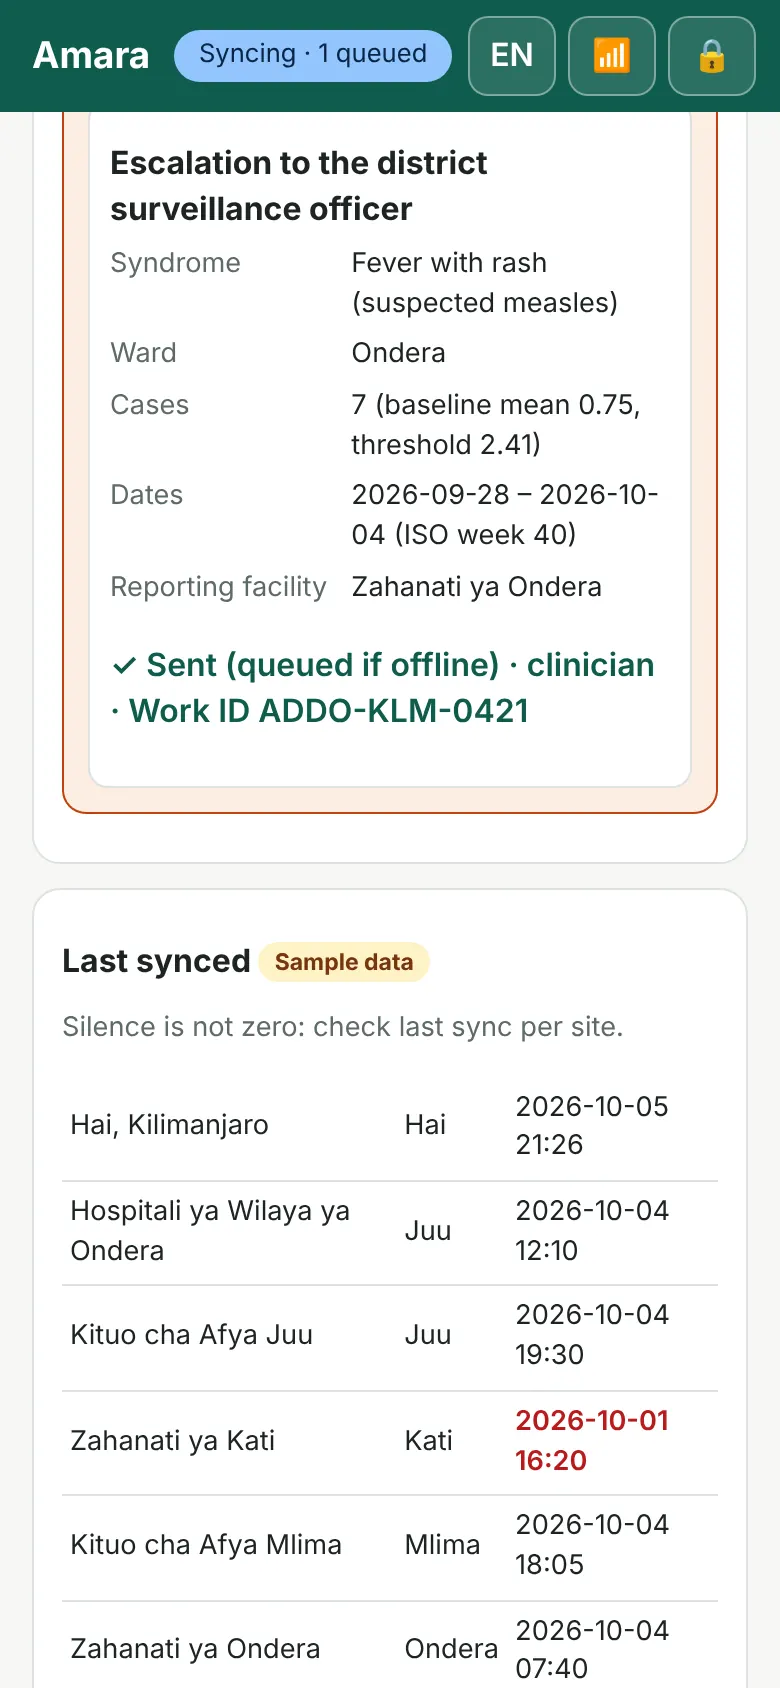
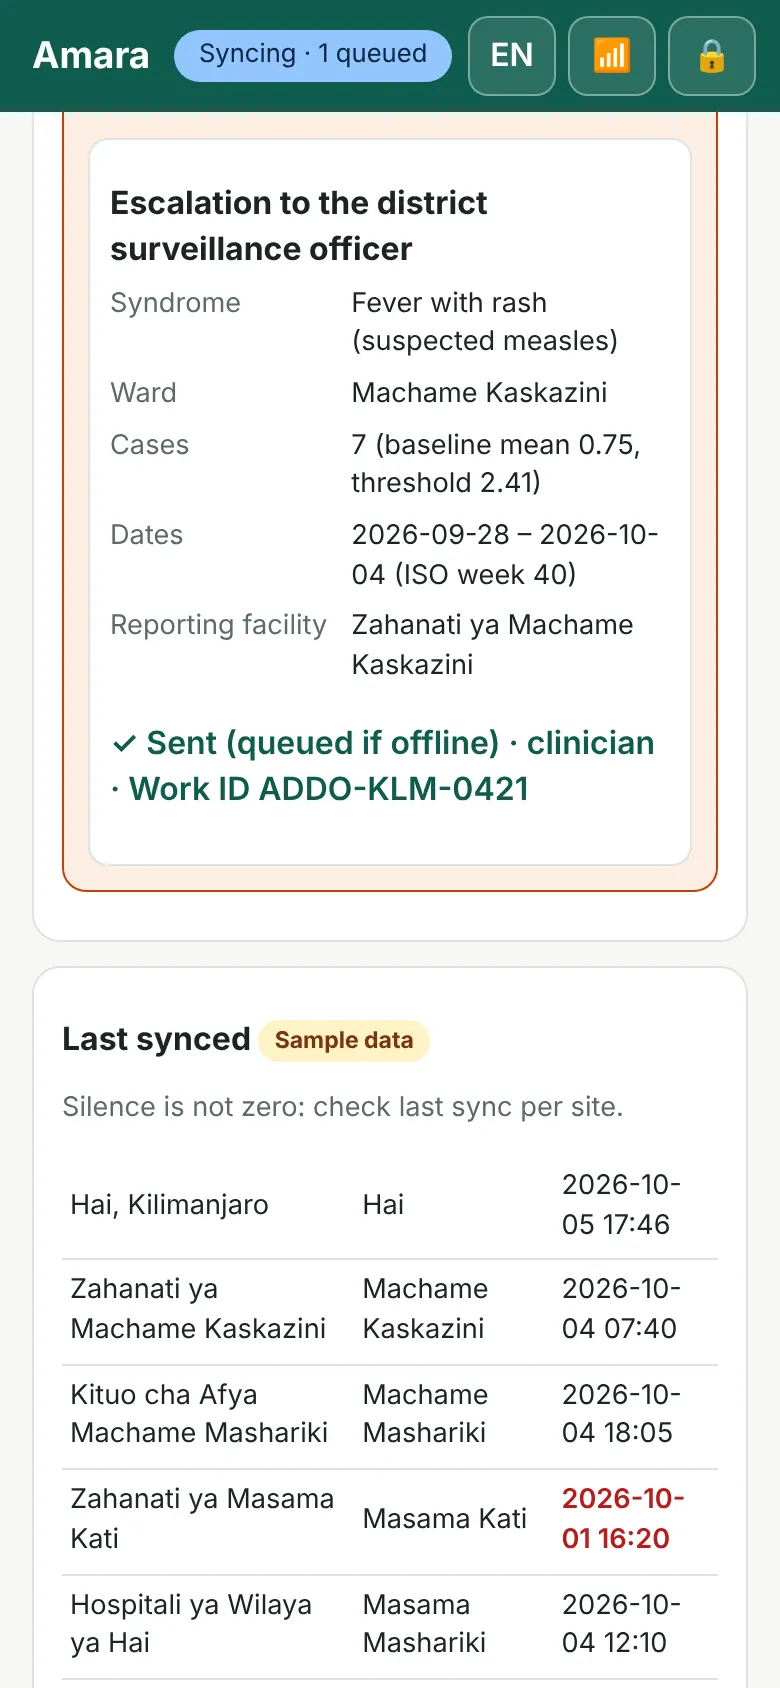
Website for investors and judges: at-a-glance strip, Business tab (who pays, unit economics, market, landscape, why now), Traction & roadmap with the ask; screens retaken with real Hai wards
Claude-Session: https://claude.ai/code/session_01BWQQm4qCbpSqJ7yc6vTWxh

diff --git a/site/index.html b/site/index.html
@@ -235,6 +235,30 @@ ol.flow li::before{content:counter(f);font:500 13px/1.9 var(--mono);color:var(--
 .contact{display:flex;flex-wrap:wrap;gap:16px;align-items:center;justify-content:space-between}
 .contact .btns{display:flex;flex-wrap:wrap;gap:12px}
 
+.glance{display:grid;grid-template-columns:repeat(5,minmax(0,1fr));gap:12px}
+.glance div{background:var(--card);border:1px solid var(--line);border-radius:16px;padding:16px;display:flex;flex-direction:column;gap:6px;min-width:0}
+.glance .k{font:600 11.5px var(--sans);letter-spacing:.1em;text-transform:uppercase;color:var(--amber)}
+.glance p{font-size:14.5px;line-height:1.45}
+@media (max-width:900px){.glance{grid-template-columns:repeat(2,minmax(0,1fr))}}
+@media (max-width:440px){.glance{grid-template-columns:minmax(0,1fr)}}
+.calc{display:flex;flex-wrap:wrap;align-items:center;gap:10px 14px;font-size:16px}
+.calc b{font:600 26px/1 var(--serif);color:var(--green);font-variant-numeric:tabular-nums}
+.calc span.op{font:500 20px var(--mono);color:var(--soft)}
+.road{list-style:none;margin:0;padding:0;display:grid;grid-template-columns:repeat(5,minmax(0,1fr));gap:14px}
+.road li{position:relative;background:var(--card);border:1px solid var(--line);border-radius:16px;padding:18px 16px 16px;display:flex;flex-direction:column;gap:6px}
+.road li::before{content:"";position:absolute;top:-1px;left:16px;right:16px;height:4px;border-radius:0 0 4px 4px;background:var(--line)}
+.road li.done::before{background:var(--green)} .road li.next::before{background:var(--gold)}
+.road .when{font:500 12.5px var(--mono);color:var(--amber)}
+.road h3{font-size:18px}
+.road p{font-size:14.5px;color:var(--soft)}
+.road .st{align-self:flex-start;font:700 11px var(--sans);letter-spacing:.08em;text-transform:uppercase;padding:3px 8px;border-radius:999px;background:var(--mint);color:var(--soft)}
+.road li.done .st{background:var(--ok-bg);color:var(--ok)} .road li.next .st{background:var(--today-bg);color:var(--today)}
+@media (max-width:900px){.road{grid-template-columns:minmax(0,1fr)}}
+.ask-band{display:grid;grid-template-columns:minmax(0,1.2fr) minmax(0,1fr);gap:clamp(20px,4vw,48px);align-items:center}
+.ask-band ul{margin:0;padding-left:20px;display:flex;flex-direction:column;gap:6px;font-size:16px}
+@media (max-width:760px){.ask-band{grid-template-columns:minmax(0,1fr)}}
+.logo small{font:500 12px var(--sans);color:var(--soft);margin-left:2px}
+@media (max-width:420px){.logo small{display:none}}
 footer{padding-block:28px 36px;border-top:1px solid var(--line);font-size:13.5px;color:var(--soft)}
 footer .wrap{display:flex;flex-direction:column;gap:10px}
 </style>
@@ -245,7 +269,7 @@ footer .wrap{display:flex;flex-direction:column;gap:10px}
     <div class="bar">
       <a class="logo" href="#home" data-go="home">
         <svg width="26" height="26" viewBox="0 0 32 32" aria-hidden="true"><circle cx="16" cy="16" r="15" fill="none" stroke="currentColor" stroke-width="2"/><path d="M16 7v18M9 13c3 0 7 1.5 7 5M23 13c-3 0-7 1.5-7 5" fill="none" stroke="currentColor" stroke-width="2" stroke-linecap="round"/></svg>
-        Amara First Contact
+        Amara First Contact <small>by Amara Health</small>
       </a>
       <a class="btn solid" href="https://ericastephens.github.io/amara-first-contact/?welcome" target="_blank" rel="noopener">Try the app</a>
     </div>
@@ -255,7 +279,8 @@ footer .wrap{display:flex;flex-direction:column;gap:10px}
       <button class="tab" role="tab" id="t-how" aria-controls="how" aria-selected="false">How it works</button>
       <button class="tab" role="tab" id="t-ai" aria-controls="ai" aria-selected="false">Small AI</button>
       <button class="tab" role="tab" id="t-safety" aria-controls="safety" aria-selected="false">Safety</button>
-      <button class="tab" role="tab" id="t-pilot" aria-controls="pilot" aria-selected="false">Evidence &amp; pilot</button>
+      <button class="tab" role="tab" id="t-business" aria-controls="business" aria-selected="false">Business</button>
+      <button class="tab" role="tab" id="t-pilot" aria-controls="pilot" aria-selected="false">Traction &amp; roadmap</button>
       <button class="tab" role="tab" id="t-team" aria-controls="team" aria-selected="false">Team</button>
       <button class="tab partner" role="tab" id="t-partner" aria-controls="partner" aria-selected="false">Partner with us</button>
     </nav>
@@ -269,7 +294,7 @@ footer .wrap{display:flex;flex-direction:column;gap:10px}
   <div class="wrap">
     <div class="hero">
       <div>
-        <p class="eyebrow">Small AI for Development 2026 · World Bank × Hack-Nation · Health</p>
+        <p class="eyebrow">Amara Health · Africa programme · Hai, Kilimanjaro, Tanzania</p>
         <h1>The first door she knocks on gets her to the <em>right care.</em></h1>
         <p class="lede">Amara First Contact is an offline triage and referral app for mothers and their children. A drug shop dispenser, community health worker or nurse runs it on a low-cost Android phone. A small AI reads the mother's own Swahili words, sourced rules decide how urgent it is, and she leaves with a clinic, a time and a code by SMS.</p>
         <div class="ctas">
@@ -288,6 +313,14 @@ footer .wrap{display:flex;flex-direction:column;gap:10px}
       </div>
     </div>
 
+    <div class="glance" aria-label="At a glance">
+      <div><span class="k">Problem</span><p>About 4.4 health workers per 10,000 people in Tanzania. Mothers often go to a drug shop first, with no way to judge urgency.</p></div>
+      <div><span class="k">Solution</span><p>Offline triage and referral at the drug shop: small AI in Swahili, sourced rules, SMS to her basic phone.</p></div>
+      <div><span class="k">Who pays</span><p>Health programmes, districts and later insurers, per completed referral or per district. Free for mothers.</p></div>
+      <div><span class="k">Stage</span><p>Working MVP, live demo, 128 automated tests. Built at the World Bank × Hack-Nation hackathon, Oct 2026.</p></div>
+      <div><span class="k">Next</span><p>A 6-month pilot with drug shops in Hai District, Kilimanjaro, in 2027.</p></div>
+    </div>
+
     <div class="band mint">
       <div class="film">
         <video controls preload="none" playsinline poster="media/simulation-poster.webp" src="media/simulation.mp4" aria-label="Simulation: three mothers, one small AI"></video>
@@ -304,7 +337,7 @@ footer .wrap{display:flex;flex-direction:column;gap:10px}
         </div>
       </div>
     </div>
-    <div class="pager"><span></span><button class="btn solid" data-go="problem">Next: The problem →</button></div>
+    <div class="pager"><button class="btn" data-go="business">For investors: the business →</button><button class="btn solid" data-go="problem">Next: The problem →</button></div>
   </div>
 </section>
 
@@ -477,14 +510,90 @@ footer .wrap{display:flex;flex-direction:column;gap:10px}
       <div class="prob"><h3>AI doesn't speak her language</h3><p>For Kichaga, Maa and others: keypad answers and voices recorded by the community. The interface works in Swahili and English, with a French draft.</p></div>
       <div class="prob"><h3>The clinic is full</h3><p>A booked slot and a note that arrives first. Danger signs skip the queue with Go now.</p></div>
     </div>
-    <div class="pager"><button class="btn" data-go="ai">← Small AI</button><button class="btn solid" data-go="pilot">Next: Evidence &amp; pilot →</button></div>
+    <div class="pager"><button class="btn" data-go="ai">← Small AI</button><button class="btn solid" data-go="business">Next: Business →</button></div>
+  </div>
+</section>
+
+<!-- BUSINESS -->
+<section class="panel" id="business" role="tabpanel" aria-labelledby="t-business" hidden>
+  <div class="wrap">
+    <div class="head"><p class="eyebrow">Business model</p><h2>Free for mothers, paid for by the programmes that need referrals to work</h2>
+      <p class="lede">Mothers and drug shops in rural Tanzania cannot pay for software. The organisations that gain when a mother reaches the right clinic early can: health programmes, districts and, later, insurers.</p></div>
+    <div class="tbl">
+      <table>
+        <thead><tr><th>Who pays</th><th>What they buy</th><th>How we charge</th><th>When</th></tr></thead>
+        <tbody>
+          <tr><td><b>NGOs and donor-funded health programmes</b></td><td>A referral system for the drug shops and CHWs in their programme</td><td>Setup and training fee, then a fee per site</td><td>Pilot, 2027</td></tr>
+          <tr><td><b>Results-based programmes</b></td><td>Completed referrals of mothers and children</td><td>A small fee per completed referral</td><td>After the pilot</td></tr>
+          <tr><td><b>District and regional health teams</b></td><td>Referrals with notes, and anonymous weekly counts for outbreaks</td><td>Yearly licence per district</td><td>2028 onward</td></tr>
+          <tr><td><b>Health insurers</b></td><td>Members who reach care early, avoiding costly emergencies</td><td>Fee per member</td><td>Later</td></tr>
+        </tbody>
+      </table>
+    </div>
+    <p class="src">Mothers never pay and the core app stays free for drug shops. Prices are hypotheses to test in the pilot.</p>
+
+    <div class="band peach head">
+      <p class="eyebrow">Illustrative unit economics · one district</p>
+      <div class="calc"><b>100</b><span>drug shops and CHWs</span><span class="op">×</span><b>20</b><span>completed referrals a month</span><span class="op">×</span><b>$1</b><span>per referral</span><span class="op">=</span><b>~$24,000</b><span>a year</span></div>
+      <p class="src">An example to show the model, not a forecast: the number of sites, referrals and the price will come from the Hai pilot. Costs per district are mainly SMS, training and support, as the app runs on phones people already own and needs no server for triage.</p>
+    </div>
+
+    <div class="head"><p class="eyebrow">Market</p><h3 style="font-size:clamp(24px,3vw,30px)">Start in one district, grow along the Swahili-speaking corridor</h3></div>
+    <div class="stats">
+      <div class="stat"><span class="n">~2.4M</span><p>Births a year in Tanzania, each a mother who may need referral in pregnancy or for her child.</p></div>
+      <div class="stat"><span class="n">9,000+</span><p>Accredited drug shops (ADDOs) across every mainland district: our first users.</p></div>
+      <div class="stat"><span class="n">31%</span><p>Of people go first to an ADDO when ill, more than to a public facility.</p></div>
+      <div class="stat"><span class="n">Hai → TZ</span><p>Start in Hai District, then Kilimanjaro region, all of Tanzania, and Swahili-speaking East Africa.</p></div>
+    </div>
+    <p class="src">Sources: UN World Population Prospects 2024 (2,385,984 births in 2024, via <a href="https://measuredworld.com/countries/tanzania/births/births-trends" target="_blank" rel="noopener">Measured World</a>); Embrey et al., PLOS ONE 2016 (ADDO figures).</p>
+
+    <div class="head"><p class="eyebrow">Landscape</p><h3 style="font-size:clamp(24px,3vw,30px)">We fill a gap the others leave, and plug into them</h3></div>
+    <div class="tbl">
+      <table>
+        <thead><tr><th>Programme or tool</th><th>What it does</th><th>Where Amara First Contact fits</th></tr></thead>
+        <tbody>
+          <tr><td><b>Afya-Tek</b> (D-tree)</td><td>Digital referral linking drug shops, CHWs and facilities in Kibaha, Tanzania</td><td>Proved the model. We add offline AI that reads her own words and asks about exposures</td></tr>
+          <tr><td><b>m-mama</b></td><td>Emergency transport for mothers and newborns</td><td>Our Go now result can hand off to m-mama dispatch</td></tr>
+          <tr><td><b>Wazazi Nipendeni, MomConnect</b></td><td>SMS information for pregnant women and new mothers</td><td>We send one short action SMS: where, when and her code</td></tr>
+          <tr><td><b>DHIS2 and eIDSR</b></td><td>National health data and disease surveillance systems</td><td>Designed to feed them anonymous counts using ICD-10</td></tr>
+        </tbody>
+      </table>
+    </div>
+    <div class="band sky head">
+      <p class="eyebrow">Why us, why now</p>
+      <ul class="scen">
+        <li style="--c:var(--green)"><div><b>AI small enough for a cheap phone</b><p>Our model is 660 KB and runs with no internet, so it works where cloud AI cannot.</p></div></li>
+        <li style="--c:var(--gold)"><div><b>A front door that already exists</b><p>Thousands of accredited drug shops already see mothers first; we give them a safe way to refer.</p></div></li>
+        <li style="--c:var(--plum)"><div><b>A team that knows the place</b><p>A Tanzanian co-founder and public health training from Johns Hopkins.</p></div></li>
+      </ul>
+    </div>
+    <div class="pager"><button class="btn" data-go="safety">← Safety</button><button class="btn solid" data-go="pilot">Next: Traction &amp; roadmap →</button></div>
   </div>
 </section>
 
 <!-- PILOT -->
 <section class="panel" id="pilot" role="tabpanel" aria-labelledby="t-pilot" hidden>
   <div class="wrap">
-    <div class="head"><p class="eyebrow">Evidence we build on</p><h2>Built on programmes that worked</h2></div>
+    <div class="head"><p class="eyebrow">Traction &amp; roadmap</p><h2>A working product today, a pilot in Hai next</h2>
+      <p class="lede">We built the app at the World Bank × Hack-Nation Small AI for Development Hackathon (3–4 October 2026), then kept going: real clinics, three languages, a public demo and a pilot plan.</p></div>
+    <ol class="road">
+      <li class="done"><span class="when">Oct 2026</span><h3>MVP built</h3><p>Offline app, small AI, 26 sourced rules, 128 tests, 105 real clinics around Hai.</p><span class="st">Done</span></li>
+      <li class="done"><span class="when">Oct–Nov 2026</span><h3>Public demo</h3><p>Live app, website and simulation video; outreach to digital health organisations working in Tanzania.</p><span class="st">Done</span></li>
+      <li class="next"><span class="when">Q1 2027</span><h3>Validate</h3><p>Interviews with dispensers, CHWs and mothers in Hai; clinical and Swahili review; ethics approval.</p><span class="st">Next</span></li>
+      <li><span class="when">Q2–Q3 2027</span><h3>Pilot</h3><p>6 months with drug shops and their linked facilities in Hai District.</p><span class="st">Planned</span></li>
+      <li><span class="when">2028</span><h3>Scale</h3><p>First paid district contracts, then Kilimanjaro region and beyond.</p><span class="st">Planned</span></li>
+    </ol>
+    <div class="band mint ask-band">
+      <div class="head" style="gap:8px"><p class="eyebrow">Our ask</p><h3 style="font-size:clamp(24px,3vw,30px)">Funding and partners for the Hai pilot</h3>
+        <p class="soft">The pilot will show whether drug shop referrals with Amara First Contact reach the clinic, and what each completed referral costs.</p></div>
+      <ul>
+        <li>Pilot funding: phones, training, SMS, a facilitator in Hai</li>
+        <li>Clinical reviewers for the rules and danger signs</li>
+        <li>An implementing partner in Tanzania</li>
+        <li>Introductions to district health teams</li>
+      </ul>
+    </div>
+    <div class="head"><p class="eyebrow">Evidence we build on</p><h3 style="font-size:clamp(24px,3vw,30px)">Built on programmes that worked</h3></div>
     <div class="prior">
       <div><h3>Afya-Tek</h3><span class="where">Kibaha, Tanzania · 2020–23</span><p>Linked 110 drug shops, 240 health workers and 53 facilities; 89% of referrals completed.</p><p class="take">Digital referral from drug shops works</p></div>
       <div><h3>m-mama</h3><span class="where">Tanzania · national</span><p>Call centre and community taxis for emergencies. Shinyanga maternal deaths fell from 60 (2015) to 15 (2021).</p><p class="take">Transport is the life-saving step</p></div>
@@ -511,7 +620,7 @@ footer .wrap{display:flex;flex-direction:column;gap:10px}
         </ul></div>
       </div>
     </div>
-    <div class="pager"><button class="btn" data-go="safety">← Safety</button><button class="btn solid" data-go="team">Next: Team →</button></div>
+    <div class="pager"><button class="btn" data-go="business">← Business</button><button class="btn solid" data-go="team">Next: Team →</button></div>
   </div>
 </section>
 
@@ -535,7 +644,7 @@ footer .wrap{display:flex;flex-direction:column;gap:10px}
         <a class="btn" href="https://github.com/ericastephens/amara-first-contact" target="_blank" rel="noopener">Code on GitHub</a>
       </div>
     </div>
-    <div class="pager"><button class="btn" data-go="pilot">← Evidence &amp; pilot</button><button class="btn gold" data-go="partner">Partner with us →</button></div>
+    <div class="pager"><button class="btn" data-go="pilot">← Traction &amp; roadmap</button><button class="btn gold" data-go="partner">Partner with us →</button></div>
   </div>
 </section>
 
@@ -575,7 +684,7 @@ footer .wrap{display:flex;flex-direction:column;gap:10px}
 
 <script>
 (function(){
-  var ids=['home','problem','how','ai','safety','pilot','team','partner'];
+  var ids=['home','problem','how','ai','safety','business','pilot','team','partner'];
   var tabs=document.querySelectorAll('.tab');
   var current='home';
   function show(id,push){
@@ -599,6 +708,7 @@ footer .wrap{display:flex;flex-direction:column;gap:10px}
   main.addEventListener('touchend',function(e){ if(sx===null) return; var dx=e.changedTouches[0].clientX-sx, dy=e.changedTouches[0].clientY-sy; if(Math.abs(dx)>70&&Math.abs(dx)>2*Math.abs(dy)){ var n=ids.indexOf(current)+(dx<0?1:-1); if(n>=0&&n<ids.length) show(ids[n],true); } sx=null; },{passive:true});
   window.addEventListener('hashchange',function(){ show(location.hash.slice(1),false); window.scrollTo(0,0); });
   show((location.hash||'#home').slice(1),false);
-  window.scrollTo(0,0); window.addEventListener('load',function(){ window.scrollTo(0,0); });
+  try{ if('scrollRestoration' in history) history.scrollRestoration='manual'; }catch(e){}
+  window.scrollTo(0,0); window.addEventListener('load',function(){ window.scrollTo(0,0); setTimeout(function(){ window.scrollTo(0,0); },50); });
 })();
 </script>
